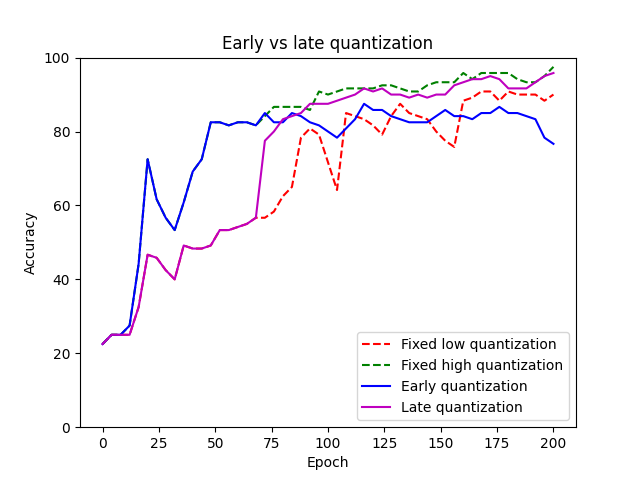
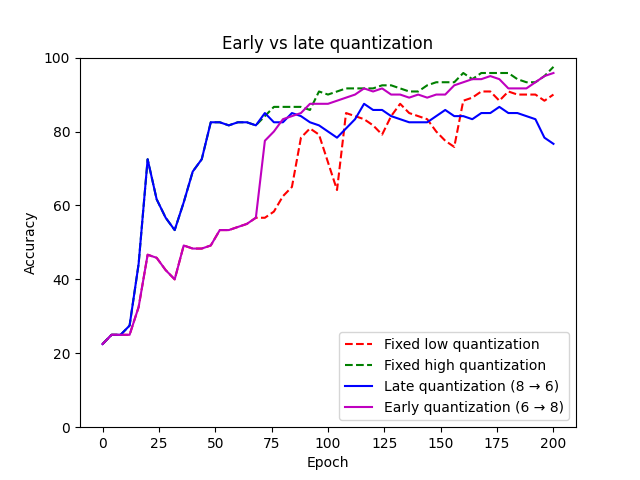
Improve chart

Changed region(s): [[0.5312, 0.6875, 0.875, 0.875], [0.5312, 0.8438, 0.5625, 0.875]]

diff --git a/main.py b/main.py
@@ -229,8 +229,8 @@ class Experiment:
         options = [
             {'label': 'Fixed low quantization', 'bits': lambda i, nb: low_bits, 'color': 'r--'},
             {'label': 'Fixed high quantization', 'bits': lambda i, nb: high_bits, 'color': 'g--'},
-            {'label': 'Early quantization', 'bits': lambda i, nb: high_bits if i <= nb / 3 else low_bits, 'color': 'b-'},
-            {'label': 'Late quantization', 'bits': lambda i, nb: low_bits if i <= nb / 3 else high_bits, 'color': 'm-'},
+            {'label': f"Late quantization ({high_bits} → {low_bits})", 'bits': lambda i, nb: high_bits if i <= nb / 3 else low_bits, 'color': 'b-'},
+            {'label': f"Early quantization ({low_bits} → {high_bits})", 'bits': lambda i, nb: low_bits if i <= nb / 3 else high_bits, 'color': 'm-'},
         ]
         for case in options:
             self.reset_state()
